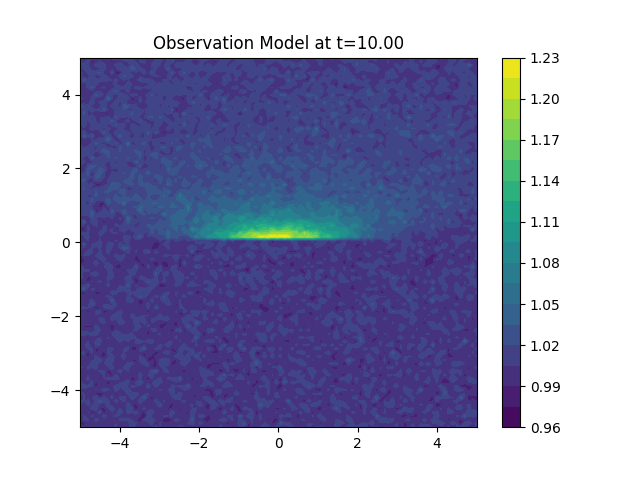
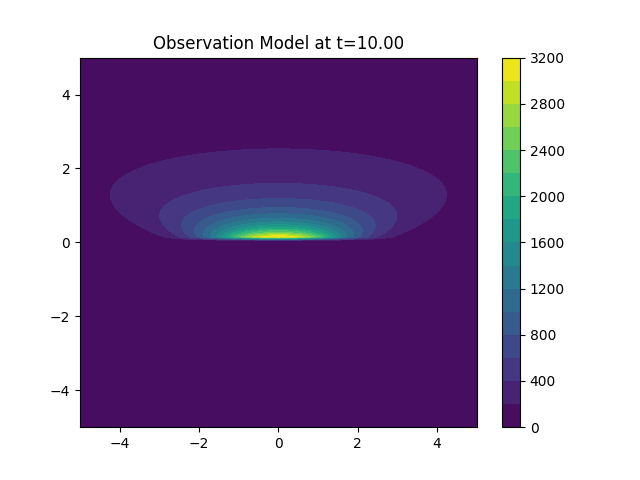
Changes for mcmc

diff --git a/Code/plumes/reproduce_mcmc.py b/Code/plumes/reproduce_mcmc.py
@@ -1,0 +1,117 @@
+import sys
+import os
+sys.path.append(os.path.abspath(os.path.join(os.path.dirname(__file__), '..')))
+
+from source_varying_functions import s_function, A_matrix, rwmh, Model, log_prior_coefficients
+import numpy as np
+import matplotlib.pyplot as plt
+
+# True parameters
+a0_true = 4
+ak_true = np.array([1])
+bk_true = np.array([1])
+true_params = [a0_true, ak_true, bk_true]
+
+# Simulation settings
+T = 10
+Nt = 10
+Nx = 20
+Lx = 5
+
+# Constants
+physical_constants = {
+    'RHO_CH4': 0.656,
+    'U': 5.0,
+    'wind_vector': np.array([0,1]),
+    'SIGMA_H': 10.0,
+    'SIGMA_V': 10.0,
+    'N_REFL': 5,
+    'P': 1000.0,
+    'XS': 0.0,
+    'YS': 0.0,
+    'ZS': 0,
+    'Z': 0,
+    'a_H': 1,
+    'b_H': 1,
+    'w': 1,
+    'a_V': 1,
+    'b_V': 1,
+    'h': 1,
+    'gamma_H': 1,
+    'gamma_V': 1
+}
+
+beta = 1
+sigma_epsilon = 0.01
+model = Model(beta, sigma_epsilon, s_function, physical_constants)
+
+# Generate data
+print("Generating data...")
+data = model.gen_data(T, Nt, Nx, Lx, ak_true, bk_true, a0_true)
+
+# Helper to structure coeffs
+def structure_coeffs(flat_coeff):
+    a0 = flat_coeff[0]
+    ak = np.array([flat_coeff[1]])
+    bk = np.array([flat_coeff[2]])
+    return [a0, ak, bk]
+
+# Define log posterior
+def log_posterior(coeff):
+    structured_coeff = structure_coeffs(coeff)
+    lp = log_prior_coefficients(structured_coeff)
+    ll = model.log_likelihood_y(structured_coeff, T, Nt, Nx, data)
+    return lp + ll
+
+# Initial point
+initial_point = np.array([0.0, 0.0, 0.0]) 
+
+# Run MCMC
+n_steps = 10000
+proposal_variance = 0.01
+
+print(f"Running MCMC for {n_steps} steps...")
+chain, acceptance_rate = rwmh(initial_point, proposal_variance, n_steps, log_posterior)
+
+print(f"Acceptance rate: {acceptance_rate}")
+final_point = chain[-1]
+print(f"Final sample: {final_point}")
+
+# Analysis
+true_flat = np.array([a0_true, ak_true[0], bk_true[0]])
+structured_true = structure_coeffs(true_flat)
+structured_final = structure_coeffs(final_point)
+
+ll_true = model.log_likelihood_y(structured_true, T, Nt, Nx, data)
+lp_true = log_prior_coefficients(structured_true)
+
+ll_final = model.log_likelihood_y(structured_final, T, Nt, Nx, data)
+lp_final = log_prior_coefficients(structured_final)
+
+print("-" * 30)
+print(f"True Params: {true_flat}")
+print(f"Log Likelihood at Truth: {ll_true}")
+print(f"Log Prior at Truth: {lp_true}")
+print(f"Total Log Posterior at Truth: {ll_true + lp_true}")
+
+print("-" * 30)
+print(f"Final Params: {final_point}")
+print(f"Log Likelihood at Final: {ll_final}")
+print(f"Log Prior at Final: {lp_final}")
+print(f"Total Log Posterior at Final: {ll_final + lp_final}")
+print("-" * 30)
+
+# Check if data generation matches likelihood expectation
+# Re-calculate residuals at truth manually
+data_reshaped = data['Y'].reshape(Nt, -1)
+log_likelihood_check = 0
+var = sigma_epsilon**2
+times = np.linspace(0, T, Nt)
+for i, t in enumerate(times):
+    st = s_function(t, ak_true, bk_true, a0_true)
+    mu = A_matrix(data['X1'], data['X2'], physical_constants)*st + beta
+    y_obs = data_reshaped[i]
+    sq_residuals = (y_obs - mu.flatten())**2
+    log_likelihood_check += -0.5 * np.sum(sq_residuals) / var
+
+print(f"Manual Log Likelihood Check at Truth: {log_likelihood_check}")

diff --git a/Code/plumes/test_A_matrix_consistency.py b/Code/plumes/test_A_matrix_consistency.py
@@ -1,0 +1,64 @@
+import sys
+import os
+sys.path.append(os.path.abspath(os.path.join(os.path.dirname(__file__), '..')))
+
+from source_varying_functions import A_matrix
+import numpy as np
+
+# Constants
+physical_constants = {
+    'RHO_CH4': 0.656,
+    'U': 5.0,
+    'wind_vector': np.array([0,1]),
+    'SIGMA_H': 10.0,
+    'SIGMA_V': 10.0,
+    'N_REFL': 5,
+    'P': 1000.0,
+    'XS': 0.0,
+    'YS': 0.0,
+    'ZS': 0,
+    'Z': 0,
+    'a_H': 1,
+    'b_H': 1,
+    'w': 1,
+    'a_V': 1,
+    'b_V': 1,
+    'h': 1,
+    'gamma_H': 1,
+    'gamma_V': 1
+}
+
+# Create a grid of points
+Nx = 20
+Lx = 5
+x_1 = np.linspace(-Lx, Lx, Nx)
+x_2 = np.linspace(-Lx, Lx, Nx)
+X_1, X_2 = np.meshgrid(x_1, x_2)
+
+# Calculate A_matrix using array input
+print("Calculating A_matrix with array input...")
+A_array = A_matrix(X_1, X_2, physical_constants)
+
+# Calculate A_matrix using scalar input
+print("Calculating A_matrix with scalar input...")
+A_scalar = np.zeros_like(A_array)
+for i in range(A_array.shape[0]):
+    for j in range(A_array.shape[1]):
+        A_scalar[i, j] = A_matrix(X_1[i, j], X_2[i, j], physical_constants)
+
+# Compare
+diff = np.abs(A_array - A_scalar)
+max_diff = np.max(diff)
+print(f"Max difference: {max_diff}")
+
+if max_diff > 1e-10:
+    print("MISMATCH DETECTED!")
+    # Find where mismatch is
+    indices = np.where(diff > 1e-10)
+    print(f"Indices of mismatch: {indices}")
+    print(f"Array value at mismatch: {A_array[indices][0]}")
+    print(f"Scalar value at mismatch: {A_scalar[indices][0]}")
+    print(f"X1 at mismatch: {X_1[indices][0]}")
+    print(f"X2 at mismatch: {X_2[indices][0]}")
+else:
+    print("Consistency check passed.")

diff --git a/Code/source_varying_functions.py b/Code/source_varying_functions.py
@@ -90,9 +90,7 @@ def A_matrix(x_sensor, y_sensor, constants):
     gamma_H = constants['gamma_H']
     gamma_V = constants['gamma_V']
 
-    # We need to handle the condition dist_R <= 0.1 safely for arrays
-    # Create a mask for valid downwind distances
-    # If inputs are scalars, this works as normal boolean. If arrays, it's a boolean array.
+    # Mask for downwind distances
     valid_mask = dist_R > 0.1
     
     # Initialize result array (or scalar) with zeros
@@ -105,7 +103,7 @@ def A_matrix(x_sensor, y_sensor, constants):
         sigma_V = a_V * (dist_R * np.tan(gamma_V))**b_V + h
         
         rho_ch4 = constants['RHO_CH4']
-        pre_factor = (10**4 / rho_ch4) / (2 * np.pi * U_speed * sigma_H * sigma_V) 
+        pre_factor = (1 / rho_ch4) / (2 * np.pi * U_speed * sigma_H * sigma_V) 
         
         term_horizontal = np.exp(-(dist_H**2) / (2 * sigma_H**2))
         term_vertical_base = np.exp(-(dist_V**2) / (2 * sigma_V**2))
@@ -148,7 +146,8 @@ def A_matrix(x_sensor, y_sensor, constants):
         sigma_V = a_V * (dist_R_valid * np.tan(gamma_V))**b_V + h
         
         # pre_factor = (1.0) / (2 * np.pi * U_speed * sigma_H * sigma_V)
-        pre_factor = 1.0 / (2 * np.pi * U_speed * sigma_H * sigma_V)
+        rho_ch4 = constants['RHO_CH4']
+        pre_factor = (1 / rho_ch4) / (2 * np.pi * U_speed * sigma_H * sigma_V)
         
         term_horizontal = np.exp(-(dist_H_valid**2) / (2 * sigma_H**2))
         term_vertical_base = np.exp(-(dist_V**2) / (2 * sigma_V**2)) # dist_V is scalar, sigma_V is array
